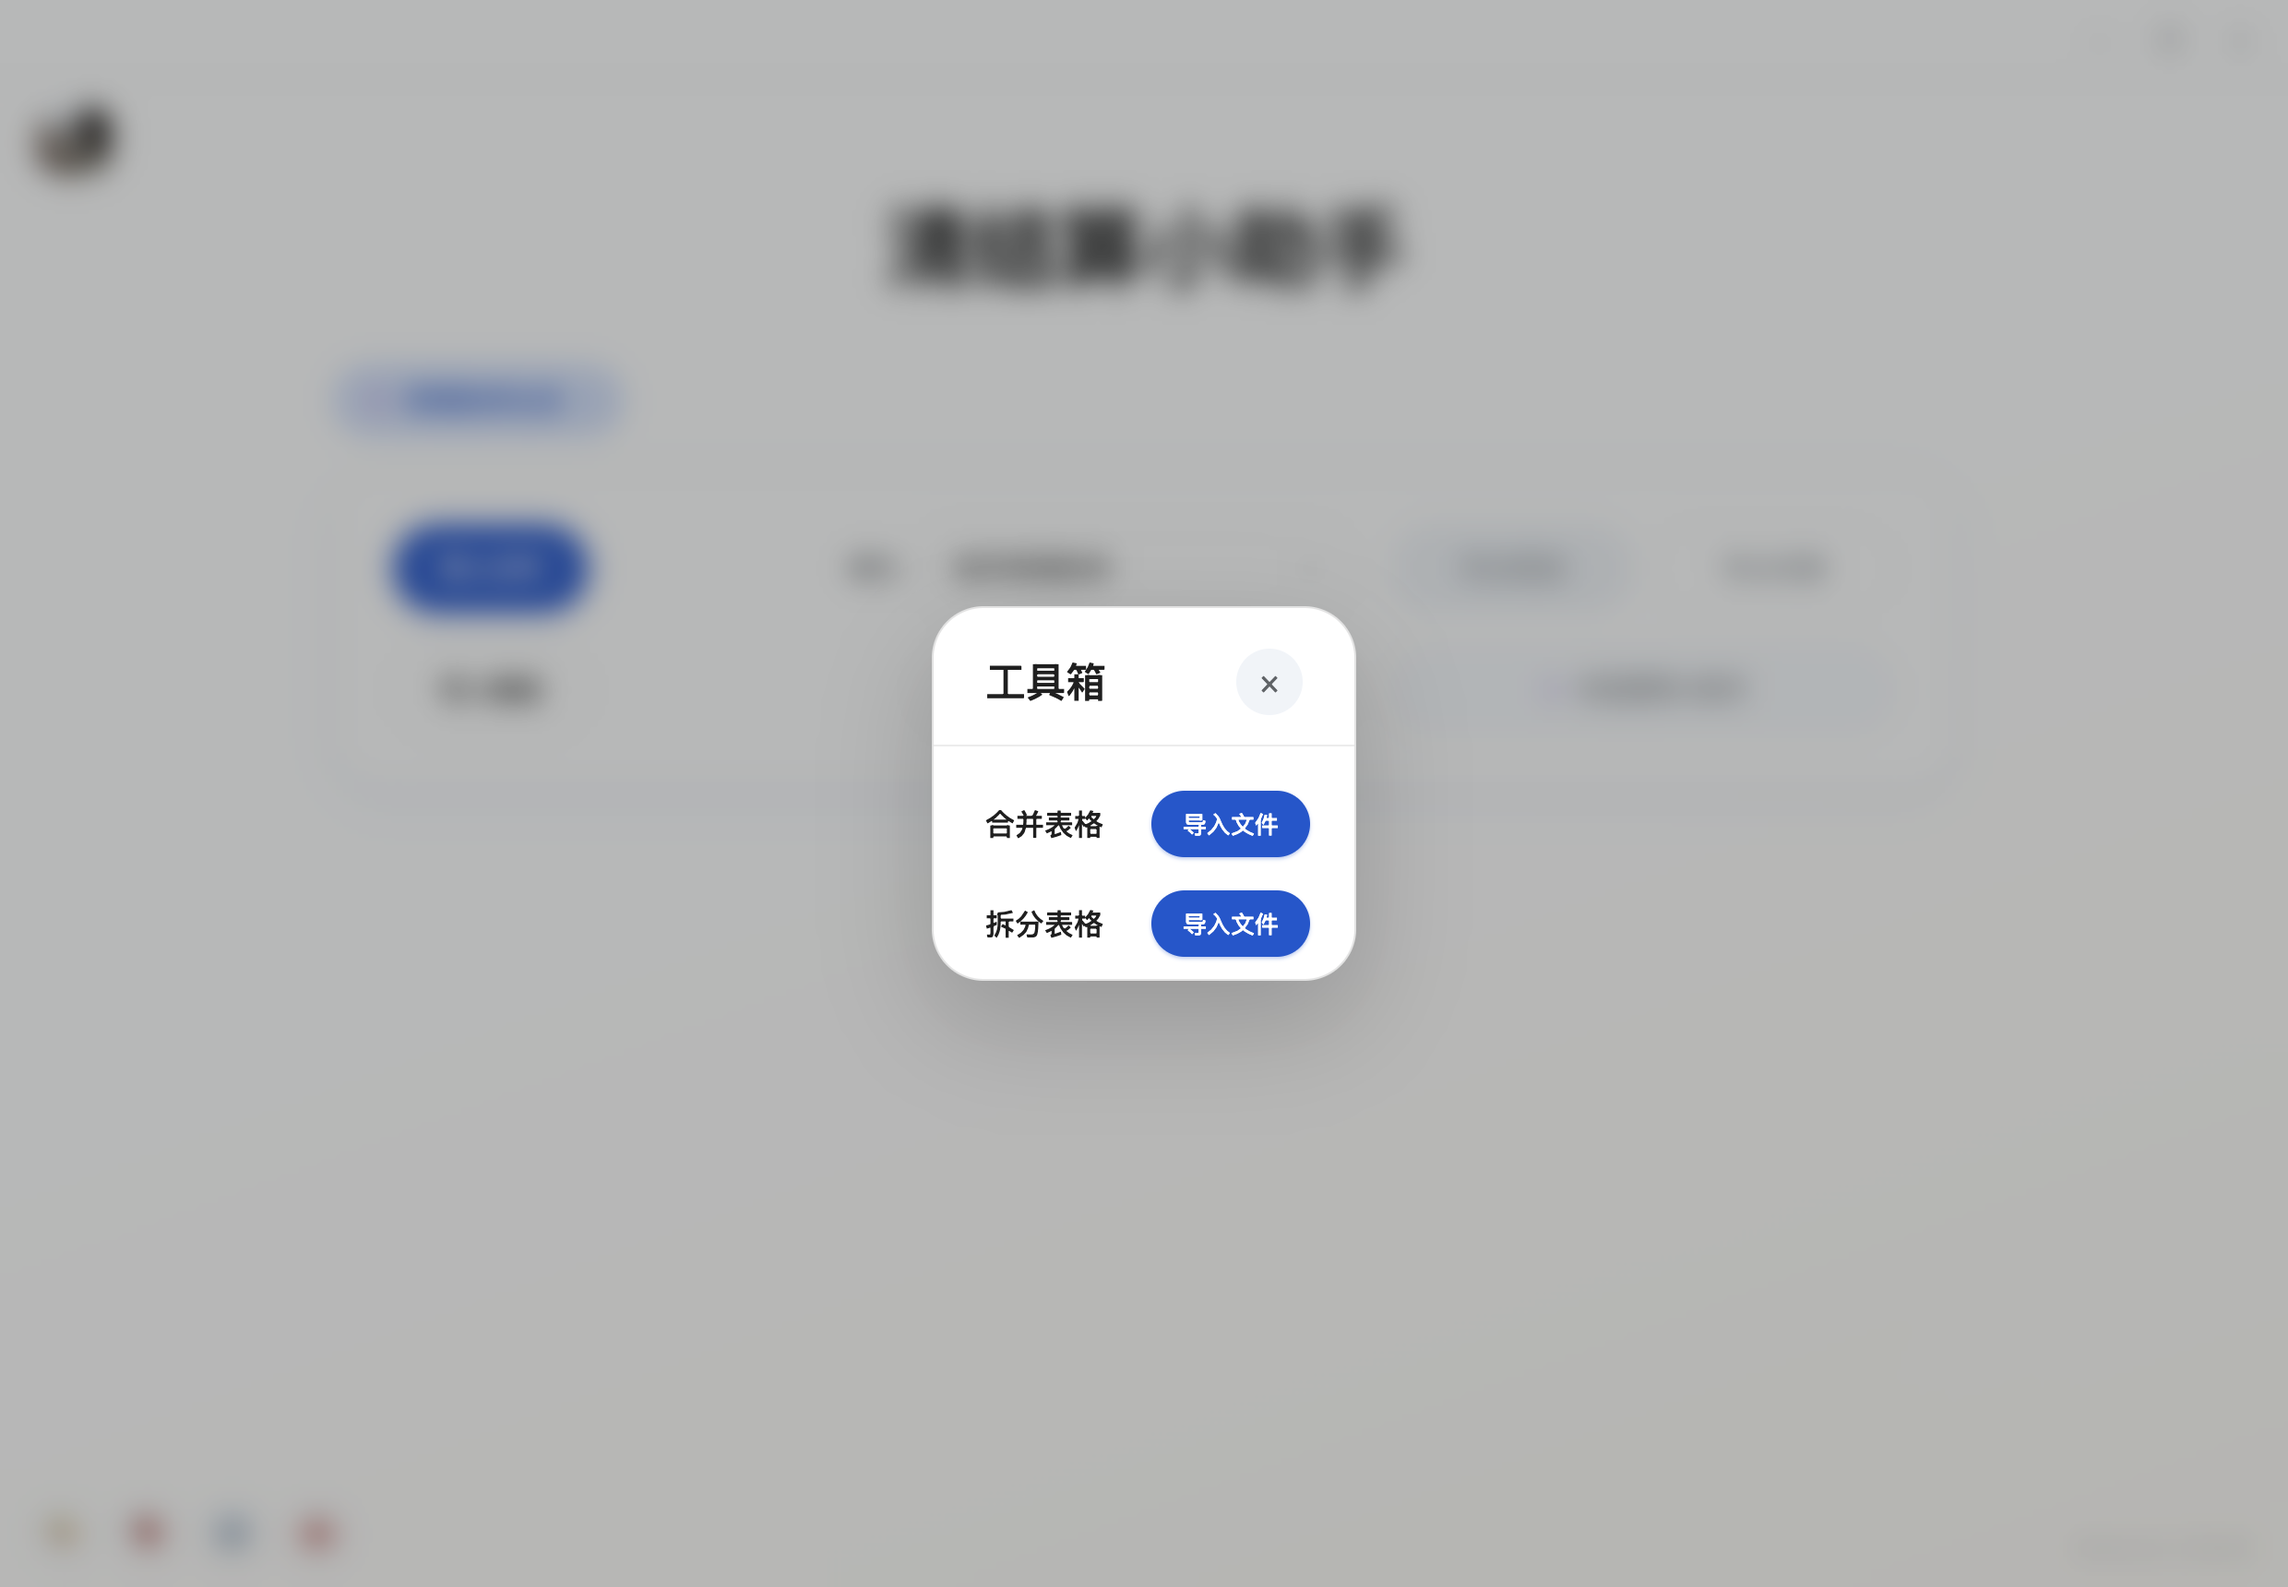
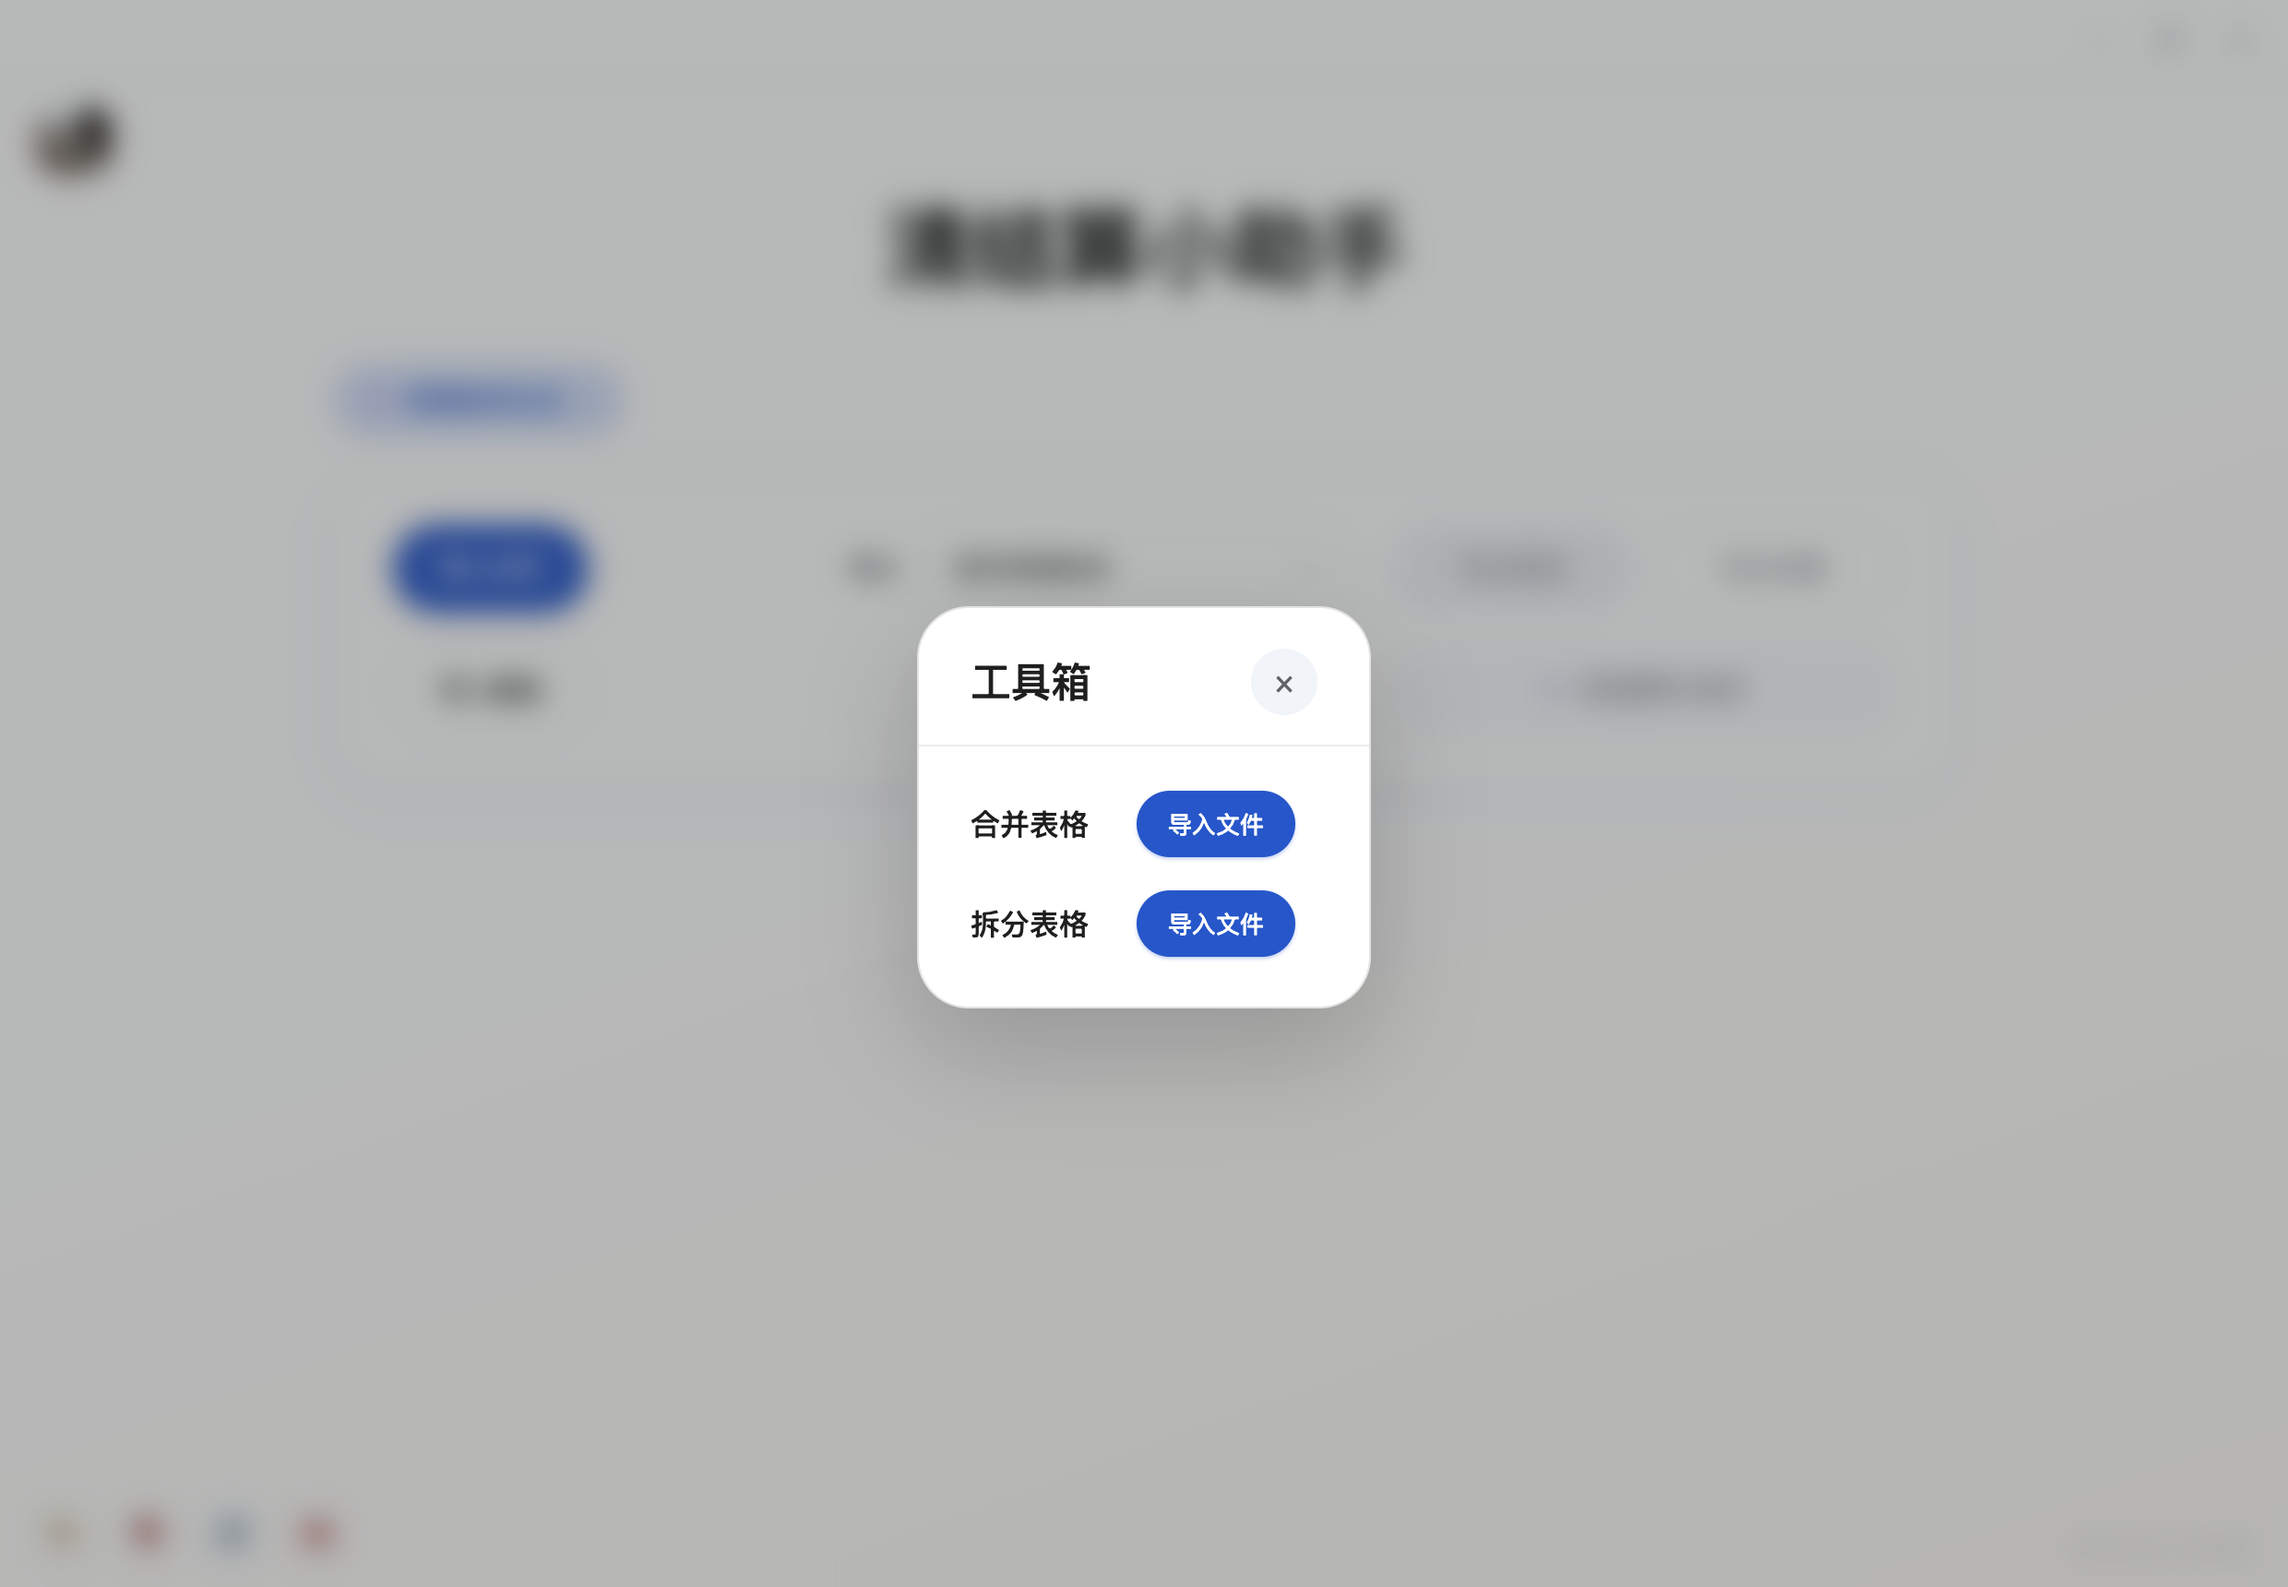
[v3.0.8] 工具箱弹窗尺寸微调（下沿+15/左右各+8）

Changed region(s): [[0.4036, 0.3698, 0.621, 0.6471]]

diff --git a/src/styles-gemini-extra.css b/src/styles-gemini-extra.css
@@ -3283,13 +3283,19 @@ select.mapping-text-input {
 /* === v3.0.8 需求1：工具箱🧰（合表 / 拆表）主弹框 + 拆表选字段弹框（Clear 风格副本，复用 dialog 基础样式）=== */
 .toolbox-card {
   /* v3.0.8：宽度缩小一半（原 460px） */
-  width: min(94vw, 230px);
+  /* v3.0.8 微调：左右各 +8（外框宽 +16，230 → 246） */
+  width: min(94vw, 246px);
+  /* v3.0.8 微调（口径 B）：卡片高 +15 由 .toolbox-body padding-bottom 承担，
+     overlay 垂直居中会把上沿上移 7.5；这里整体下移 7.5 抵消，
+     使上沿回到最原始基线、下沿净往下 +15。 */
+  transform: translateY(7.5px);
 }
 .toolbox-body {
   display: flex;
   flex-direction: column;
   gap: 18px;
-  padding: 24px 28px 12px;
+  /* v3.0.8 微调：下沿往下 +15（padding-bottom 12 → 27） */
+  padding: 24px 28px 27px;
 }
 .toolbox-row {
   display: flex;
